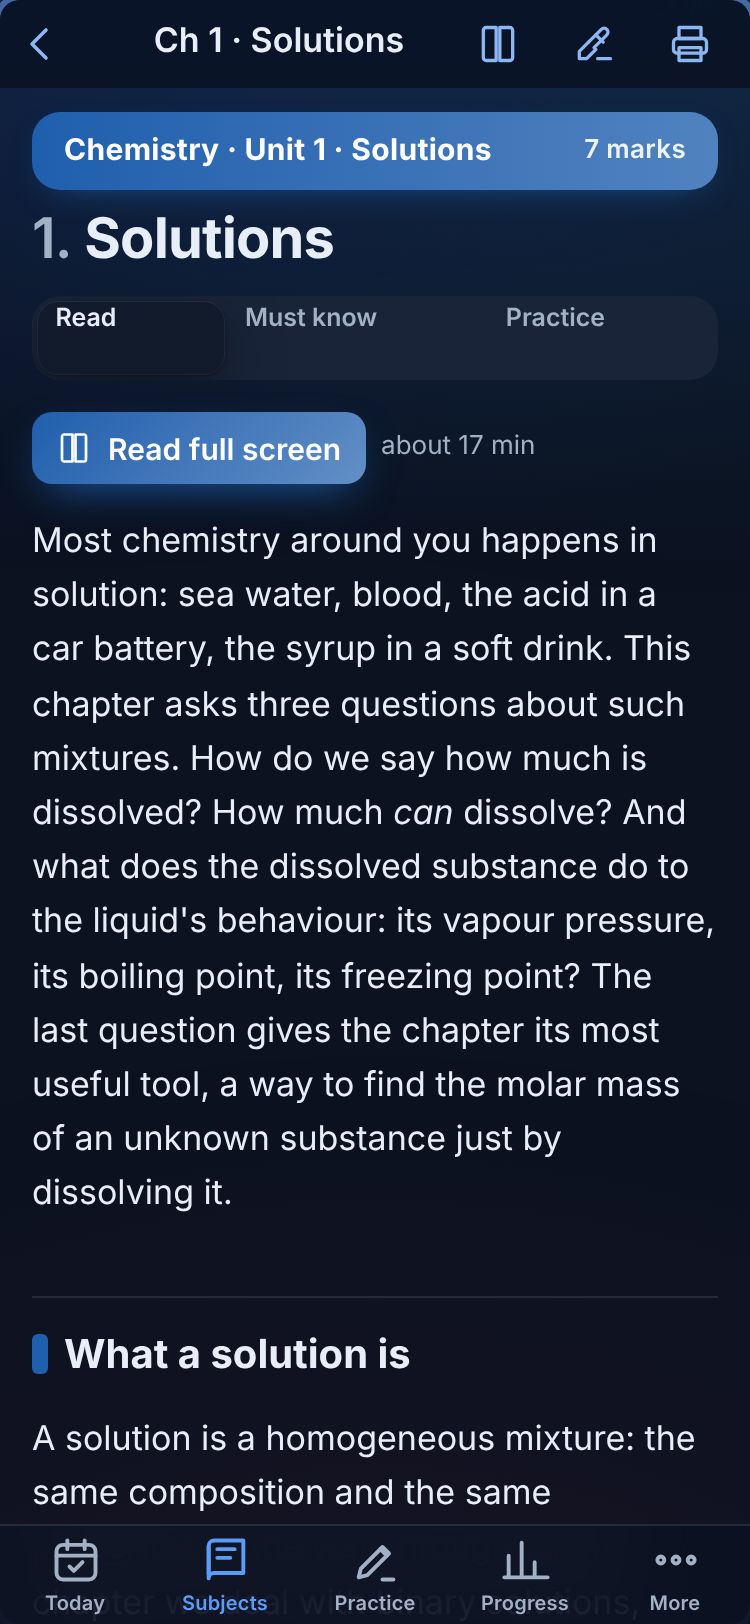
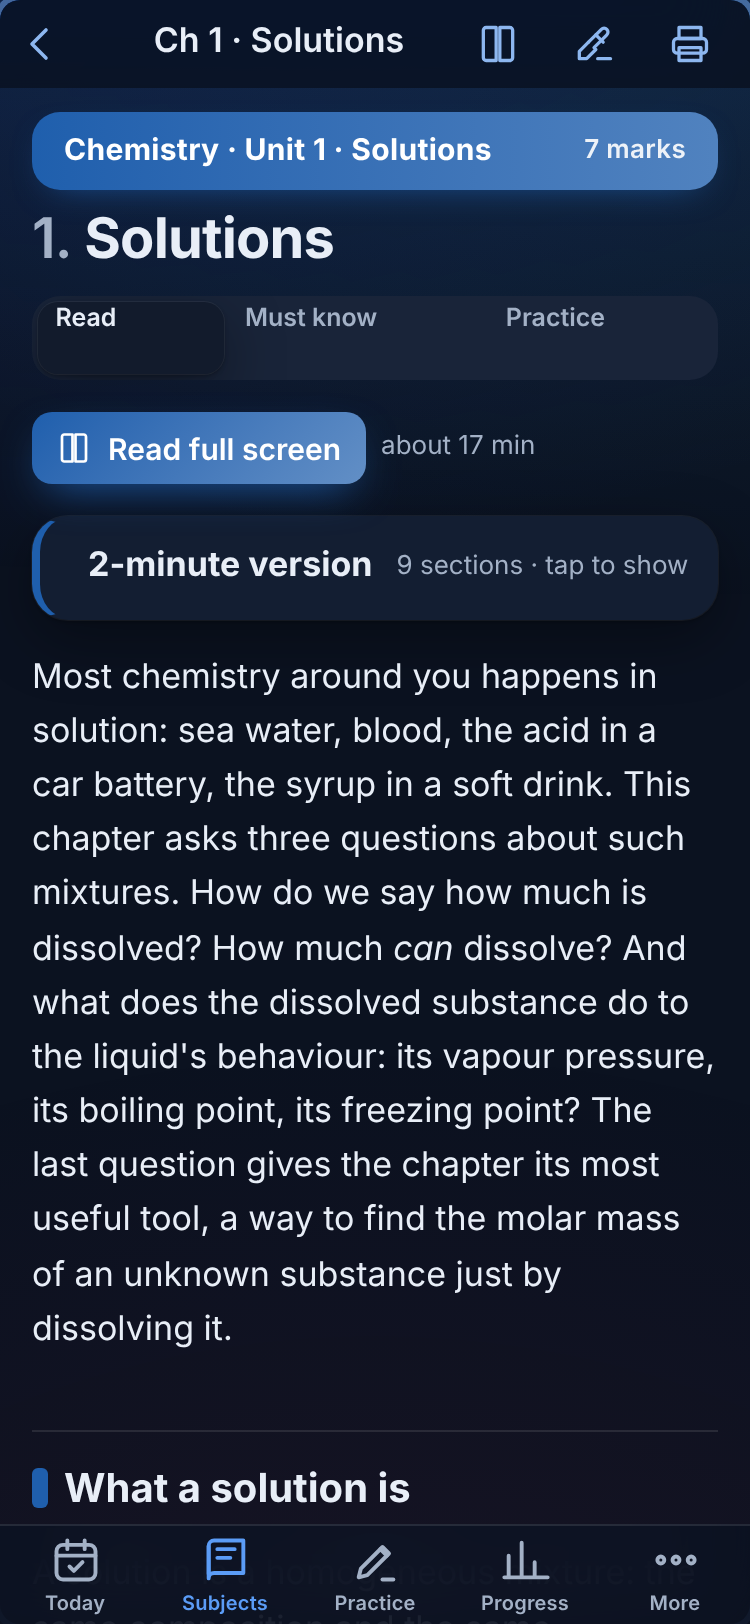
site: side notes before the exam — 2-minute version on Read, Exam eve page per subject
- Read tab opens with a collapsible '2-minute version': the chapter's 'In one breath' paragraphs in order (highlightable; open/closed remembered).
- New …/<subject>/exam-eve page (link on the subject page): every chapter's Must-know lines, formula boxes and traps
  in one scroll in the reader frame, with highlights (layer …/exameve) and a chapters sheet.
- Highlights sheet names the new layers and jumps to them.
- sw: exameve.js precached, CACHE_VERSION dev14.

Claude-Session: https://claude.ai/code/session_013Q11xHt3aNdyCJserdQXRT

Changed region(s): [[0.0307, 0.3079, 0.9507, 0.9236], [0.8587, 0.8621, 0.92, 0.8929]]

diff --git a/app/views/chapter.js b/app/views/chapter.js
@@ -13,6 +13,7 @@ export async function chapter(route) {
   if (!sub) return { title: 'Not found', tab: 'subjects', html: emptyState({ icon: 'alert', title: 'No such subject' }) };
   if (route.chapterId === 'formulas' && route.tab === 'drill') { const { recallFormulas } = await import('./recall.js'); return recallFormulas({ cls, stream, sub }); }
   if (route.chapterId === 'formulas') { const { formulaSheet } = await import('./formulas.js'); return formulaSheet({ cls, stream, sub }); }
+  if (route.chapterId === 'exam-eve') { const { examEve } = await import('./exameve.js'); return examEve({ cls, stream, sub }); }
   const { unit, chapter: ch } = data.chapterOf(sub, route.chapterId);
   if (!ch) return { title: 'Not found', tab: 'subjects', back: routeFor(cls.id, stream.id, sub.id), html: emptyState({ icon: 'alert', title: 'No such chapter', action: `<a class="btn btn--secondary" href="${routeFor(cls.id, stream.id, sub.id)}">Back to ${esc(sub.name)}</a>` }) };
   if (route.tab === 'read') { const { reader } = await import('./reader.js'); return reader({ cls, stream, sub, unit, ch }); }
@@ -82,6 +83,16 @@ async function renderTab(tab, ctx) {
       mountProgress(panel, key);
     } else {
       panel.innerHTML = `<div class="row mb-4" style="gap:var(--s-2);flex-wrap:wrap"><a class="btn btn--unit btn--sm" href="${routeFor(ctx.cls.id, ctx.stream.id, sub.id, ch.id, 'read')}" style="--unit:#${unit.colour}">${icon('book')} Read full screen</a>${ch.read_minutes ? `<span class="t-footnote t-2">about ${ch.read_minutes} min</span>` : ''}</div>`;
+      const breath = breathMarkdown(src);
+      if (breath.count) {
+        const open = !!store.get('breath.open', false);
+        const det = document.createElement('details'); det.className = 'breath'; det.open = open;
+        det.innerHTML = `<summary><span class="breath__title">${icon('bolt')} 2-minute version</span><span class="t-footnote t-2">${breath.count} sections · tap to ${open ? 'hide' : 'show'}</span></summary>`;
+        const b = await renderMarkdown(breath.md, { unitColour: unit.colour, eager: true }); b.classList.add('breath__body'); det.appendChild(b);
+        attach(b, `${sub.id}/${ch.id}/breath`);
+        det.addEventListener('toggle', () => { store.set('breath.open', det.open); det.querySelector('summary .t-footnote').textContent = `${breath.count} sections · tap to ${det.open ? 'hide' : 'show'}`; });
+        panel.appendChild(det);
+      }
       panel.appendChild(node);
     }
     const hs = headings(node);
@@ -97,6 +108,17 @@ async function renderTab(tab, ctx) {
     const byType = Object.entries(ch.question_types || {});
     panel.innerHTML = `<div class="card"><div class="t-headline">${q.length} questions ready</div><p class="t-2 t-footnote mt-2">${byType.map(([t, n]) => `${n} ${t.toUpperCase()}`).join(' · ')}</p><p class="t-2 t-subhead mt-2">Practice mode (one question at a time, hints, self-marking) is the next thing being built. Until then, use the chapter notes and formula sheet.</p></div>`;
   }
+}
+
+/* ---------- 2-minute version: the "In one breath" paragraphs of notes.md, in order ---------- */
+function breathMarkdown(src) {
+  const out = []; let heading = '';
+  for (const raw of src.replace(/\r\n/g, '\n').split('\n')) {
+    const h = raw.match(/^##\s+(.+)$/); if (h) { heading = h[1].trim(); continue; }
+    const m = raw.match(/^\*\*In one breath:\*\*\s*(.+)$/);
+    if (m) out.push(`- **${heading.replace(/\*\*/g, '')}** — ${m[1].trim()}`);
+  }
+  return { md: out.join('\n'), count: out.length };
 }
 
 /* ---------- Progress (small section at the foot of Must know) ---------- */
@@ -123,9 +145,9 @@ function mountProgress(panel, key) {
 async function openHighlights({ key, sub, ch, cls, stream }) {
   const { listForChapter, jumpTo } = await import('../highlights.js');
   const hs = listForChapter(key);
-  const layerName = { notes: 'Read', mustknow: 'Must know', formulas: 'Formula sheet' };
+  const layerName = { notes: 'Read', mustknow: 'Must know', formulas: 'Formula sheet', breath: '2-minute version', exameve: 'Exam eve' };
   const list = hs.length
-    ? `<div class="list">${hs.map((h) => { const layer = h.layer.split('/').pop(); const target = layer === 'formulas' ? routeFor(cls.id, stream.id, sub.id, 'formulas') : routeFor(cls.id, stream.id, sub.id, ch.id, layer); return `<a class="list__item hl-item" href="${target}" data-jump="${esc(h.id)}"><span class="hl-item__bar hl-bg--${h.color}"></span><span class="list__body"><span class="list__title hl-item__q">${esc(h.exact)}</span>${h.note ? `<span class="list__sub hl-item__n">${esc(h.note)}</span>` : ''}<span class="list__sub">${layerName[layer] || layer}</span></span><span class="list__trailing">${icon('chevronRight', { class: 'chev' })}</span></a>`; }).join('')}</div>`
+    ? `<div class="list">${hs.map((h) => { const layer = h.layer.split('/').pop(); const target = layer === 'formulas' ? routeFor(cls.id, stream.id, sub.id, 'formulas') : layer === 'exameve' ? routeFor(cls.id, stream.id, sub.id, 'exam-eve') : routeFor(cls.id, stream.id, sub.id, ch.id, layer === 'breath' ? 'notes' : layer); return `<a class="list__item hl-item" href="${target}" data-jump="${esc(h.id)}"><span class="hl-item__bar hl-bg--${h.color}"></span><span class="list__body"><span class="list__title hl-item__q">${esc(h.exact)}</span>${h.note ? `<span class="list__sub hl-item__n">${esc(h.note)}</span>` : ''}<span class="list__sub">${layerName[layer] || layer}</span></span><span class="list__trailing">${icon('chevronRight', { class: 'chev' })}</span></a>`; }).join('')}</div>`
     : `<div class="notice">${icon('highlight')}<div>Select any words in Read, Must know or the formula sheet, then pick a colour. Add a note if you like. They collect here.</div></div>`;
   const s = openSheet({
     title: 'Highlights', closeLabel: 'Done',

diff --git a/app/views/exameve.js b/app/views/exameve.js
@@ -1,0 +1,60 @@
+// Exam eve: one calm scroll per subject — every chapter's Must-know lines, formula boxes and traps, in the reader frame.
+// Route: #/<class>/<stream>/<subject>/exam-eve. Built from each chapter's mustknow.md; highlights work (layer …/exameve).
+import { html, raw, icon, esc, emptyState } from '../ui.js';
+import { data, routeFor } from '../data.js';
+
+const KEEP = { 'Must-know lines and definitions': 'lines', 'Key formulas': 'boxes', 'Mark-losing traps': 'all' };
+
+/** Pick the exam-eve parts out of a mustknow.md: lines, formula boxes, traps. */
+export function examEveMarkdown(src) {
+  const lines = src.replace(/\r\n/g, '\n').split('\n');
+  const out = []; let mode = null, i = 0;
+  while (i < lines.length) {
+    const h = lines[i].match(/^##\s+(.+)$/);
+    if (h) { const name = h[1].trim(); mode = KEEP[name] || null; if (mode) out.push(`### ${name.replace('Must-know lines and definitions', 'Must know').replace('Key formulas', 'Formulas').replace('Mark-losing traps', 'Traps')}`); i++; continue; }
+    if (!mode) { i++; continue; }
+    const d = lines[i].match(/^:::(tip|formula|skeleton)\s*(.*)$/);
+    if (d) {
+      const block = [lines[i++]]; while (i < lines.length && !/^:::\s*$/.test(lines[i])) block.push(lines[i++]); block.push(':::'); i++;
+      if (mode === 'all' || (mode === 'boxes' && d[1] === 'formula')) out.push(block.join('\n'), '');
+      continue;
+    }
+    if (mode !== 'boxes') out.push(lines[i]);
+    i++;
+  }
+  return out.join('\n').trim();
+}
+
+export async function examEve({ cls, stream, sub }) {
+  const chapters = data.allChapters(sub).filter((c) => c.items?.mustknow);
+  const back = routeFor(cls.id, stream.id, sub.id);
+  return {
+    title: `${sub.name} · exam eve`, tab: 'subjects', fullscreen: true, unitColour: sub.colour,
+    html: html`<div class="rd" id="rd" data-paper="auto" data-font="sans" data-mode="scroll" style="--unit:#${sub.colour};--rd-size:17px">
+      <header class="rd__top"><a class="icon-btn" href="${back}" aria-label="Close">${raw(icon('x'))}</a><div class="rd__title truncate">${sub.name} · Exam eve</div><div class="row" style="gap:0"><button class="icon-btn" type="button" data-contents aria-label="Chapters">${raw(icon('menu'))}</button><button class="icon-btn hide-phone" type="button" onclick="window.print()" aria-label="Print">${raw(icon('print'))}</button></div></header>
+      <div class="rd__stage"><article class="rd__book" id="rd-book">
+        <div class="rd__unit">${sub.name} · ${cls.name}</div>
+        <h1 class="rd__h1">Exam eve</h1>
+        <p class="t-2" style="font-family:var(--font-sans);font-size:var(--fs-subhead)">Every chapter's must-know lines, formula boxes and traps, in one slow read. Nothing new tonight: just the lines you already know, once more. Highlight anything that still feels shaky.</p>
+        <div id="ee-content">${chapters.length ? raw(chapters.map((c) => `<section id="ee-${c.id}" data-colour="${c.unitObj.colour}"><h2 class="rd__divider" style="color:#${c.unitObj.colour}">${c.number}. ${esc(c.title)}</h2><div class="skeleton" style="height:4rem"></div></section>`).join('')) : emptyState({ icon: 'bolt', title: 'No must-know lines yet', text: 'This page builds itself from each chapter’s Must know as they are written.' })}</div>
+      </article></div>
+    </div>`,
+    async mount(el) {
+      if (!chapters.length) return;
+      const { renderMarkdown } = await import('../markdown.js');
+      const { attach } = await import('../highlights.js');
+      for (const c of chapters) {
+        const sec = el.querySelector(`#ee-${CSS.escape(c.id)}`);
+        const src = await data.mustknow(sub, c.id);
+        const node = await renderMarkdown(examEveMarkdown(src || ''), { unitColour: c.unitObj.colour });
+        sec.querySelector('.skeleton')?.remove(); sec.appendChild(node);
+        attach(node, `${sub.id}/${c.id}/exameve`);
+      }
+      el.querySelector('[data-contents]')?.addEventListener('click', async () => {
+        const { openSheet } = await import('../ui.js');
+        const s = openSheet({ title: 'Chapters', content: `<div class="list">${chapters.map((c) => `<button class="list__item has-leading" type="button" data-id="ee-${c.id}"><span class="list__leading" style="--unit:#${c.unitObj.colour}">${c.number}</span><span class="list__body"><span class="list__title">${esc(c.title)}</span></span><span class="list__trailing">${icon('chevronRight', { class: 'chev' })}</span></button>`).join('')}</div>` });
+        s.body.addEventListener('click', (e) => { const b = e.target.closest('[data-id]'); if (!b) return; s.close(); setTimeout(() => el.querySelector('#' + b.dataset.id)?.scrollIntoView({ behavior: 'smooth', block: 'start' }), 60); });
+      });
+    },
+  };
+}

diff --git a/sw.js b/sw.js
@@ -3,7 +3,7 @@
    - Content (content/**, data/**): stale-while-revalidate so notes, plan and practice work offline once opened.
    - Vendored libraries (vendor/**: KaTeX, marked, DOMPurify, fonts): cache-first, version-pinned.
    Updates: the new worker waits; the page shows "New version available" and posts SKIP_WAITING. */
-const CACHE_VERSION = 'dev13';
+const CACHE_VERSION = 'dev14';
 const SHELL = `ng-shell-${CACHE_VERSION}`;
 const CONTENT = 'ng-content-v1';
 const LIBS = 'ng-libs-v1';
@@ -14,7 +14,7 @@ const SHELL_FILES = [
   './styles/tokens.css', './styles/base.css', './styles/layout.css', './styles/components.css', './styles/reader.css', './styles/print.css',
   './app/main.js', './app/router.js', './app/store.js', './app/data.js', './app/ui.js', './app/icons.js', './app/theme.js', './app/pwa.js', './app/markdown.js',
   './app/views/index.js', './app/views/today.js', './app/views/classes.js', './app/views/subject.js', './app/views/chapter.js',
-  './app/views/practice.js', './app/views/progress.js', './app/views/plan.js', './app/views/more.js', './app/views/reader.js', './app/views/recall.js', './app/views/formulas.js', './app/recall.js', './app/highlights.js', './app/auth.js', './app/quotes.js', './app/views/signin.js', './app/views/admin.js', './app/github.js',
+  './app/views/practice.js', './app/views/progress.js', './app/views/plan.js', './app/views/more.js', './app/views/reader.js', './app/views/recall.js', './app/views/formulas.js', './app/views/exameve.js', './app/recall.js', './app/highlights.js', './app/auth.js', './app/quotes.js', './app/views/signin.js', './app/views/admin.js', './app/github.js',
   './assets/icons/icon-192.png', './assets/icons/icon-64.png', './assets/icons/icon-512.png', './assets/icons/favicon.svg',
   './data/classes.json', './data/index.json',
   './vendor/marked.esm.js', './vendor/purify.es.mjs', './vendor/katex/katex.mjs', './vendor/katex/katex.min.css', './vendor/katex/contrib/auto-render.mjs', './vendor/katex/contrib/mhchem.mjs',

diff --git a/app/views/subject.js b/app/views/subject.js
@@ -26,6 +26,7 @@ export async function subject(route) {
         ${raw(`<div class="stat"><div class="stat__value tnum">${withNotes}</div><div class="stat__label">with notes</div></div>`)}
       </div>
       ${data.allChapters(sub).some((c) => c.items?.formulas) ? raw(`<a class="card continue pressable mb-4" href="${routeFor(cls.id, stream.id, sub.id, 'formulas')}" style="--unit:#${sub.colour}"><span class="list__leading">${icon('formula')}</span><span class="continue__main"><span class="continue__title">Formula sheet</span><span class="continue__sec" style="color:var(--text-2);font-weight:500">All chapters on one page · read the day before the paper</span></span>${icon('chevronRight', { class: 'chev', size: 20 })}</a>`) : ''}
+      ${data.allChapters(sub).some((c) => c.items?.mustknow) ? raw(`<a class="card continue pressable mb-4" href="${routeFor(cls.id, stream.id, sub.id, 'exam-eve')}" style="--unit:#${sub.colour}"><span class="list__leading">${icon('bolt')}</span><span class="continue__main"><span class="continue__title">Exam eve</span><span class="continue__sec" style="color:var(--text-2);font-weight:500">Every chapter's must-know lines, formula boxes and traps in one calm scroll</span></span>${icon('chevronRight', { class: 'chev', size: 20 })}</a>`) : ''}
       ${sub.units.map((u) => raw(`
         <div class="unit-bar" style="--unit:#${u.colour}"><span>Unit ${esc(u.id)} · ${esc(u.name)}</span><span class="marks">${u.marks_group ? `Units ${esc(u.marks_group)} · ` : ''}${u.marks} marks</span></div>
         <div class="list">

diff --git a/styles/components.css b/styles/components.css
@@ -415,3 +415,15 @@ a.card.continue, button.card.continue { display: flex; }
 .prose table { overflow-wrap: normal; word-break: normal; -webkit-overflow-scrolling: touch; }
 .prose th, .prose td { min-width: 5.5rem; hyphens: auto; }
 .prose th:first-child, .prose td:first-child { min-width: 4.5rem; }
+
+/* 2-minute version (Read tab): the chapter's "In one breath" lines, collapsible */
+.breath { border: 1px solid var(--card-border); border-left: 4px solid var(--unit, var(--accent)); border-radius: var(--r-lg); background: color-mix(in srgb, var(--unit, var(--accent)) 5%, var(--surface)); margin-bottom: var(--s-4); box-shadow: var(--shadow-1); }
+.breath summary { list-style: none; display: flex; align-items: center; justify-content: space-between; gap: var(--s-3); padding: var(--s-3) var(--s-4); cursor: pointer; min-height: var(--tap); }
+.breath summary::-webkit-details-marker { display: none; }
+.breath summary:focus-visible { border-radius: var(--r-lg); }
+.breath__title { display: inline-flex; align-items: center; gap: var(--s-2); font-weight: 700; font-size: var(--fs-headline); white-space: nowrap; }
+.breath summary .t-footnote { white-space: nowrap; }
+.breath__title svg { width: 1.1rem; height: 1.1rem; color: var(--unit, var(--accent)); }
+.breath__body { padding: 0 var(--s-4) var(--s-4); font-size: var(--fs-subhead); line-height: 1.5; }
+.breath__body ul { padding-left: 1.1em; }
+.breath__body li + li { margin-top: 0.5em; }
